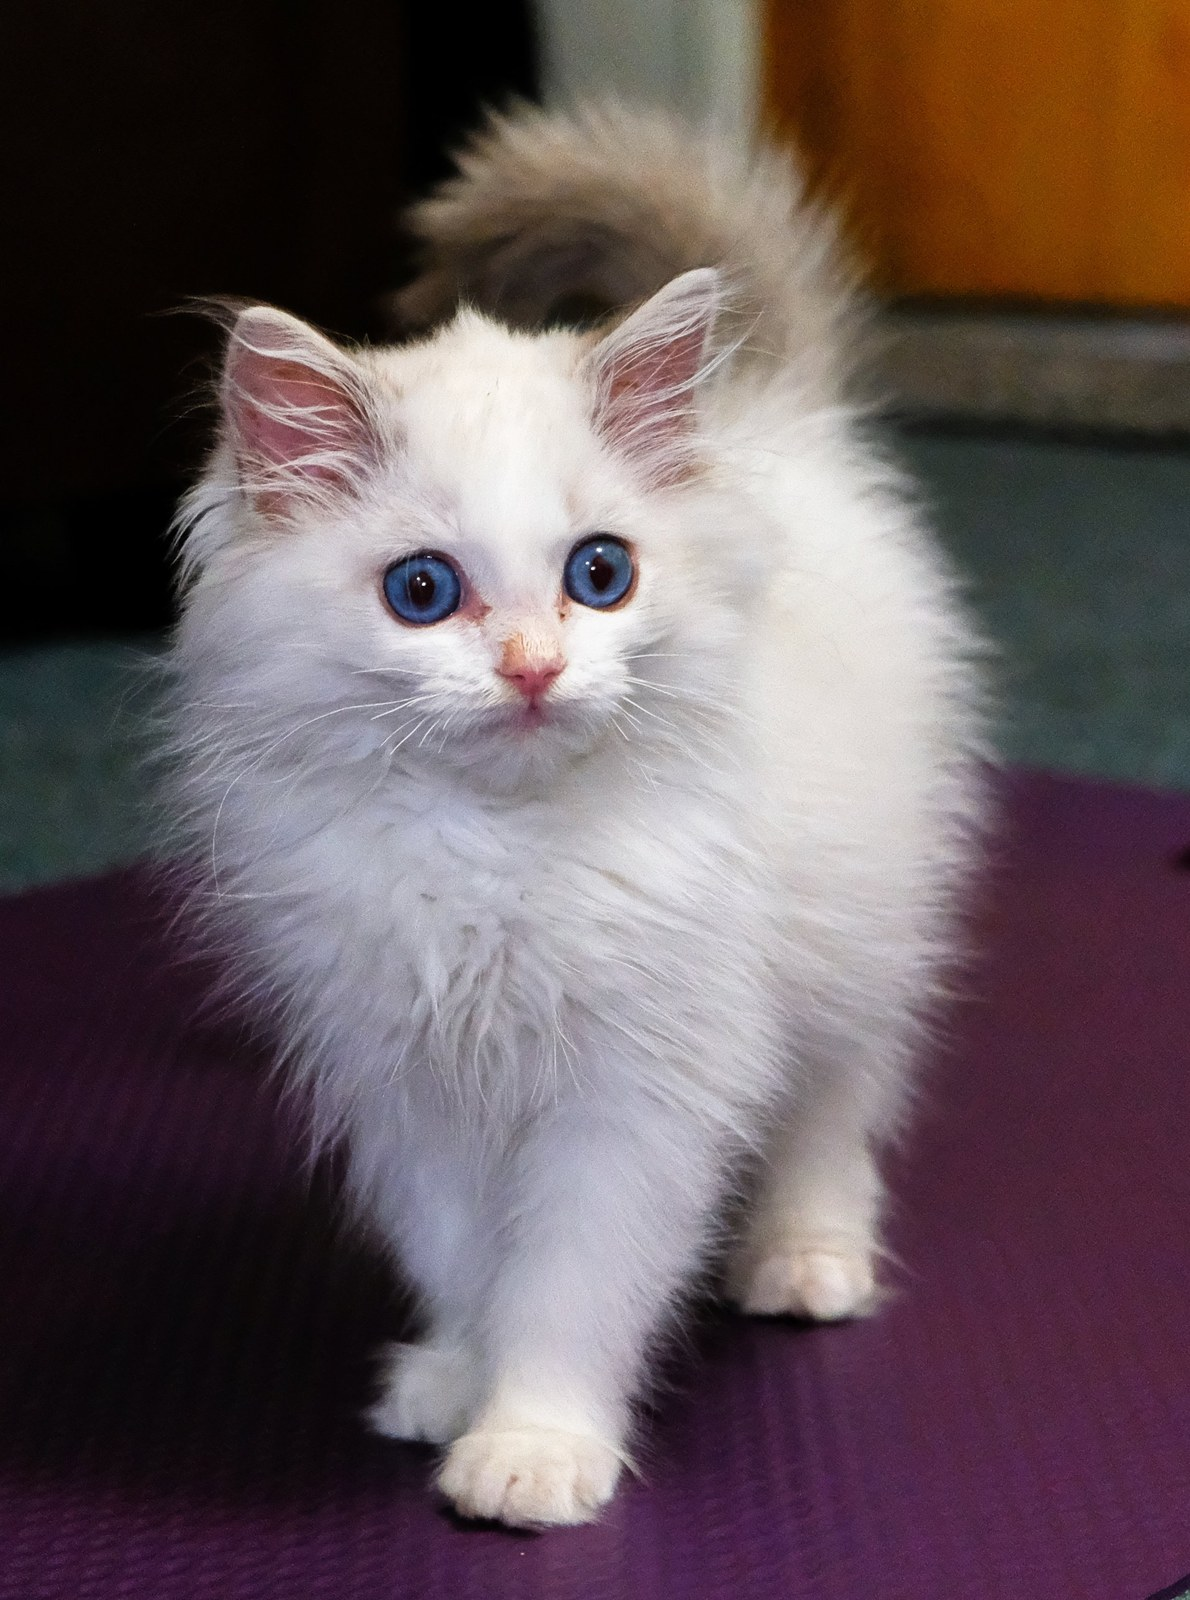
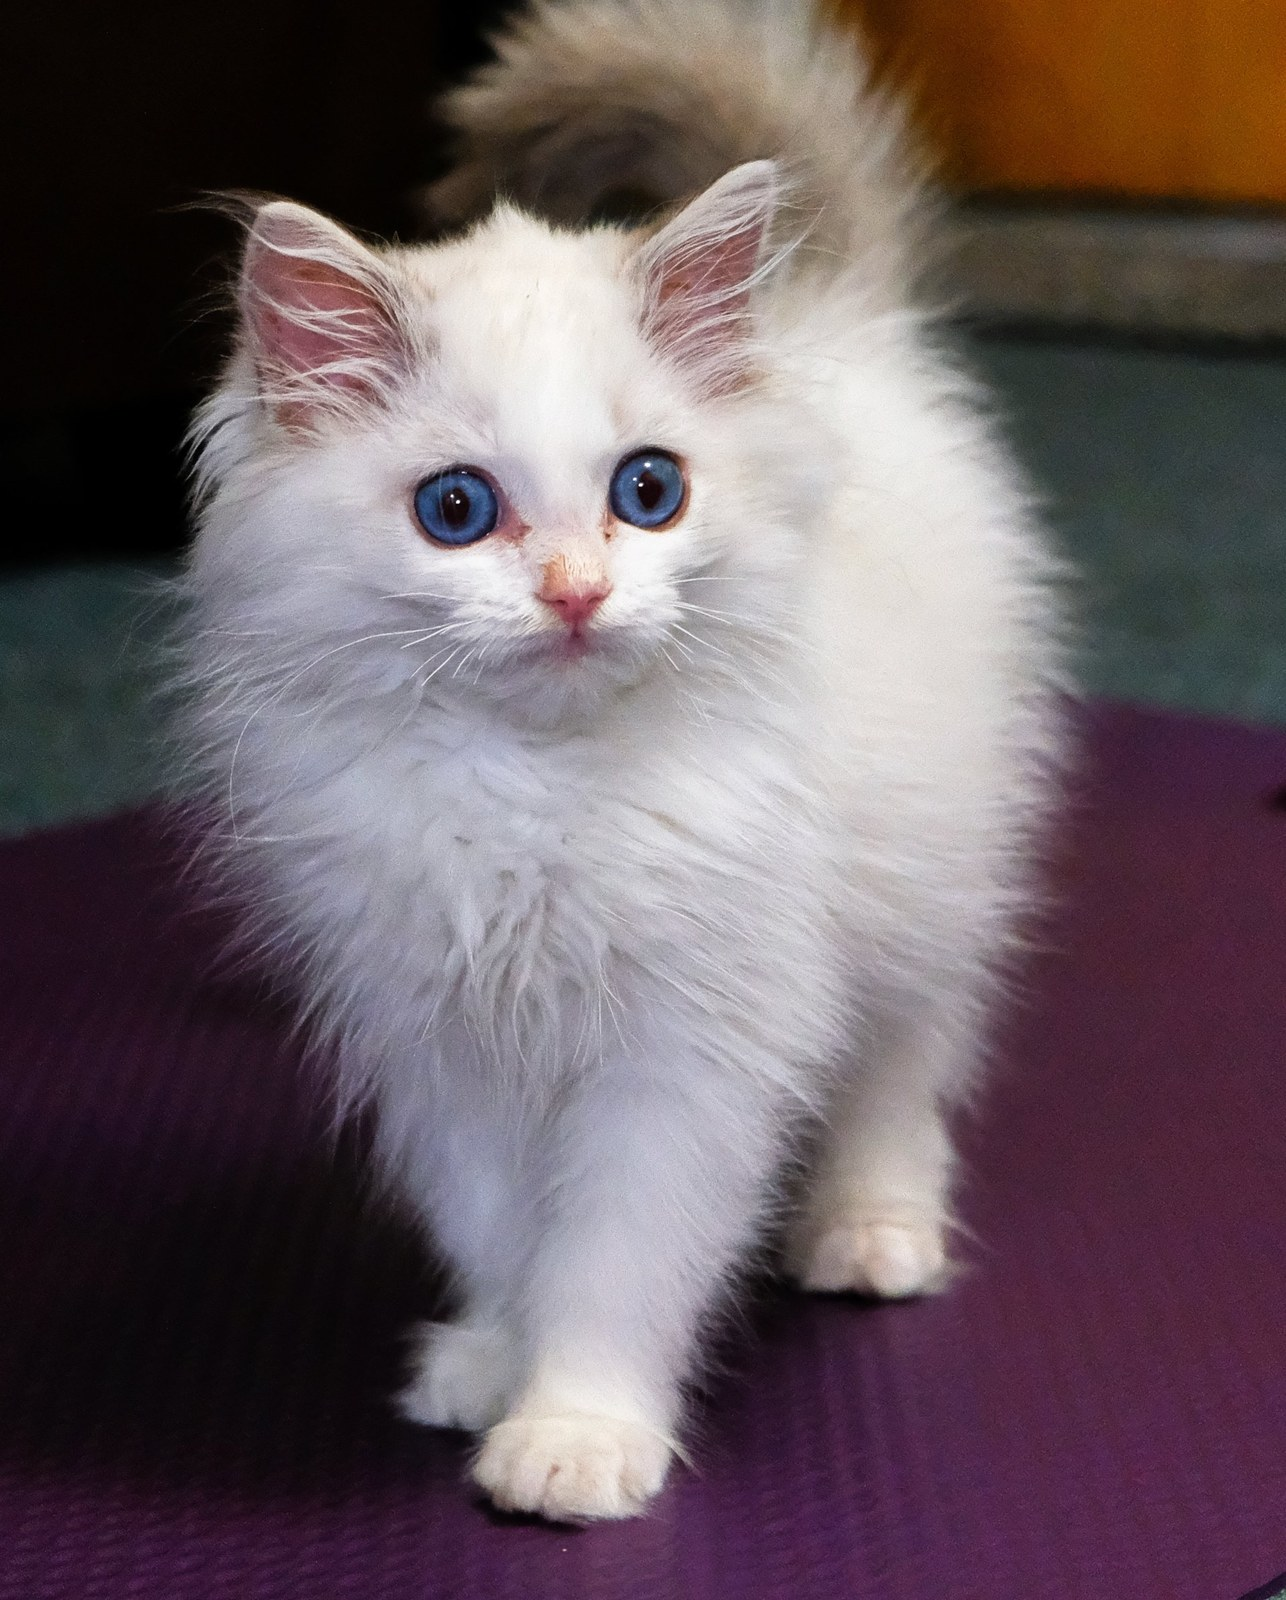
1.0.3: drop faint smears far from the subject, trim sample photo

Changed region(s): [[0.0, 0.0, 1.0, 0.9688], [0.6529, 0.5, 0.684, 0.5312]]

diff --git a/public/matte.js b/public/matte.js
@@ -108,7 +108,7 @@
     return { w: w, h: h, alpha: alpha, fg: fg };
   }
   // ---- Unmixing result (used where the background is smooth) ----
-  var TUNE = { tau: 0.05, rOut: 0.03, rIn: 0.006, iters: 3, toe: 0.03, pf: 3, pb: 2, smooth: 1, kv: 15, vlo: 0.003, vhi: 0.012, hiT: 0.5 };
+  var TUNE = { tau: 0.05, rOut: 0.03, rIn: 0.006, iters: 3, toe: 0.03, pf: 3, pb: 2, smooth: 1, kv: 15, vlo: 0.003, vhi: 0.012, hiT: 0.5, rP: 0.012, pLo: 0.02, pHi: 0.2 };
   /* rgba: Uint8ClampedArray w*h*4 of the photo at working size. p: Float32Array w*h, mask 0..1 at the same size.
      Returns { w, h, alpha: Uint8ClampedArray, fg: Uint8ClampedArray (RGBA, A = where to use the cleaned color) }. */
   function refineNew(rgba, p, w, h, opts) {
@@ -136,6 +136,8 @@
       else if (dl[i] < 0.0003) { state[i] = 2; A[i] = 0; }
       else A[i] = q[i];
     }
+    // How close is each pixel to the model's mask? Faint smears far from it are background, not fur.
+    var near = blur(midM, Math.max(3, Math.round(big * T.rP)));
     er = null; dl = null; hiM = null; midM = null;
     // 2. Unmix: estimate local foreground and background colors, then solve alpha per pixel.
     var radii = [Math.round(big * 0.04), Math.round(big * 0.012), Math.round(big * 0.005)].slice(0, T.iters);
@@ -183,7 +185,10 @@
     for (i = 0; i < n; i++) {
       var v = A[i];
       if (state[i] === 2) v = 0; else if (state[i] === 1) v = 1;
-      else { v = (v - toe) / (1 - toe); v = v < 0 ? 0 : v > 1 ? 1 : v; }
+      else {
+        v = (v - toe) / (1 - toe); v = v < 0 ? 0 : v > 1 ? 1 : v;
+        var nr = near[i]; if (nr < T.pHi) v *= nr <= T.pLo ? 0 : (nr - T.pLo) / (T.pHi - T.pLo);
+      }
       A[i] = v; alpha[i] = v * 255 + 0.5;
     }
     // 4. Clean foreground colors. Take the color of the subject from pixels that are clearly subject, spread it out to

diff --git a/public/version.js b/public/version.js
@@ -1,5 +1,5 @@
 /* The one place to change the version. Edit these two lines, then add an entry to CHANGELOG.md and public/CHANGELOG.txt. */
-var BK_VERSION = '1.0.2';
+var BK_VERSION = '1.0.3';
 var BK_UPDATED = '2026-11-06';
 
 (function () {

diff --git a/CHANGELOG.md b/CHANGELOG.md
@@ -2,6 +2,10 @@
 
 The version number and date live in `public/version.js`. To release, change them there and add an entry here. Keep `public/CHANGELOG.txt` the same as this file.
 
+## 1.0.3, 6 November 2026
+
+- Faint smears of motion blur far from the subject are now dropped, so stray streaks no longer hang off tails and ears.
+
 ## 1.0.2, 6 November 2026
 
 - Finer cutouts: wisps of fur and hair now survive, especially against plain backgrounds.
